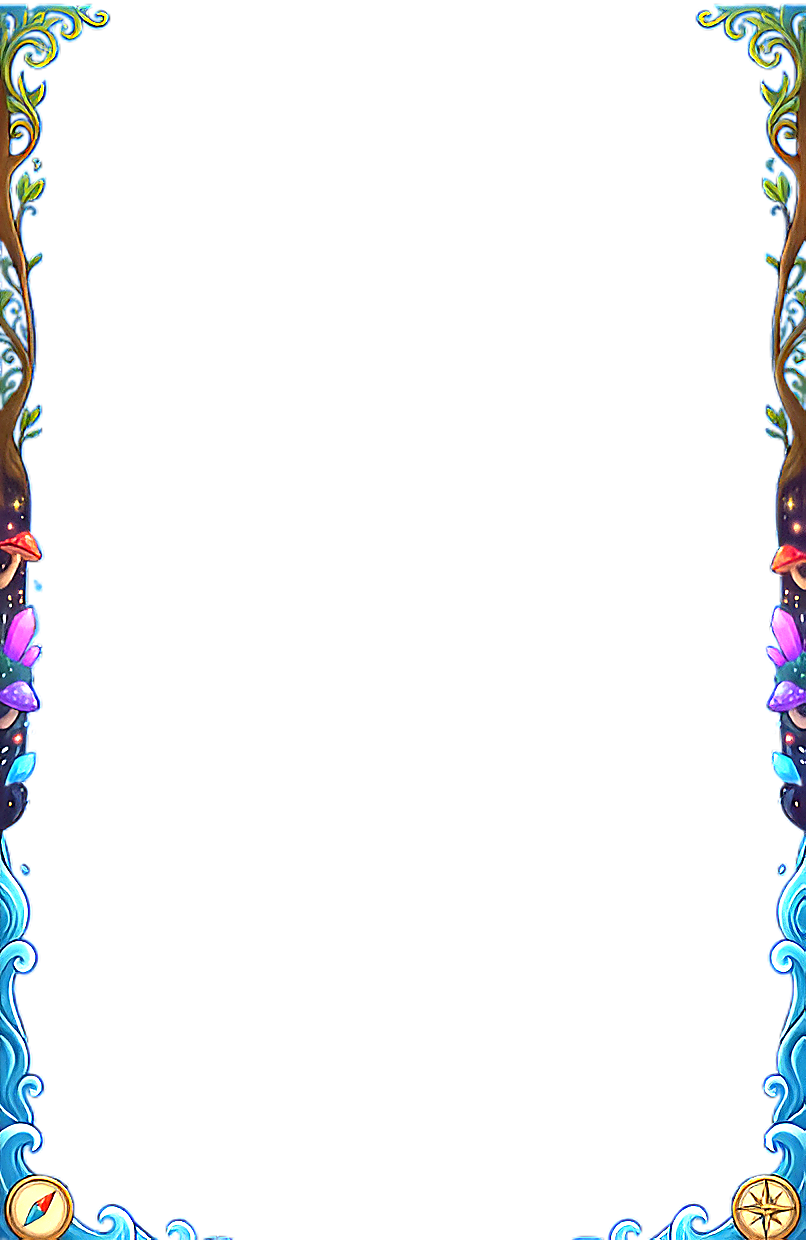
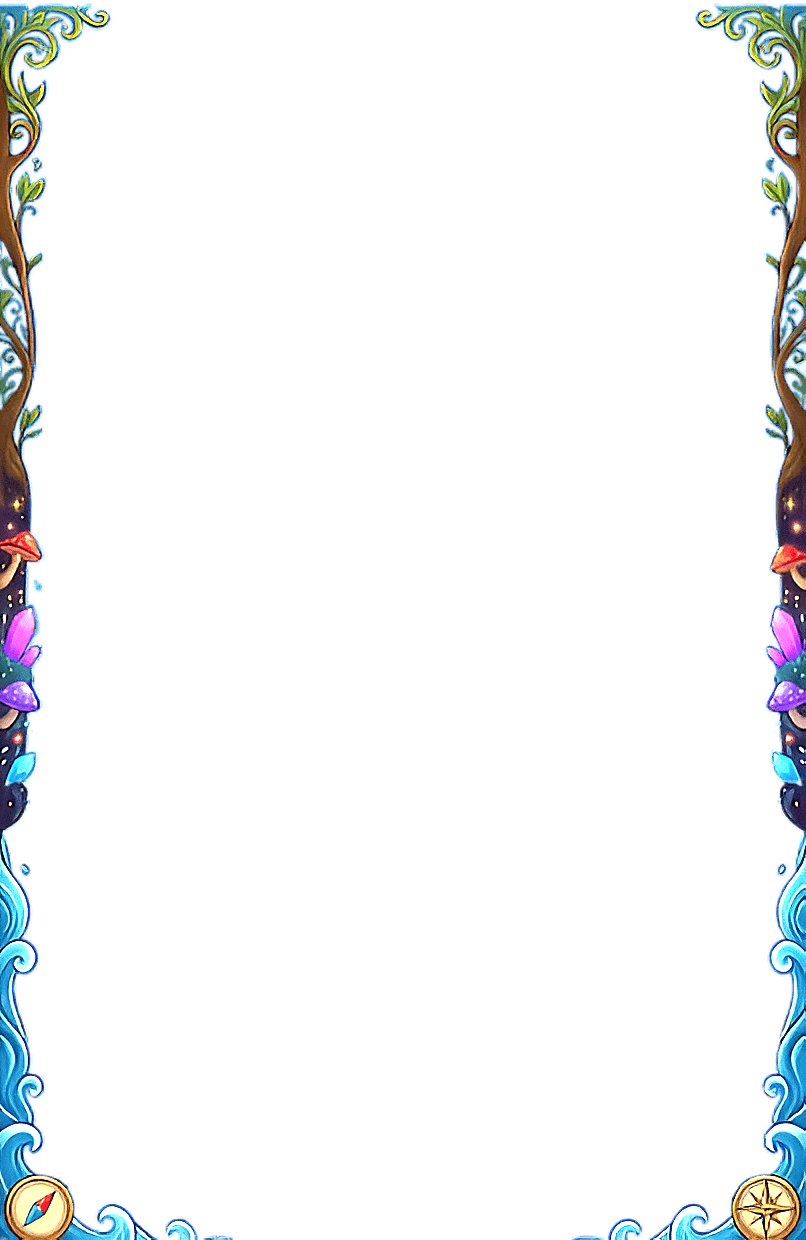
Updated

diff --git a/game_start.html b/game_start.html
@@ -13,7 +13,7 @@
     <link rel="stylesheet" href="style.css">
 </head>
 <body class="game-start-page">
-    <img class="game-start-bg" src="assets/Backgrounds/bg1.png" alt="Learnscape game background">
+    <img class="game-start-bg" src="assets/Backgrounds/bg1.webp" alt="Learnscape game background">
     <a class="game-return-btn loading-link" href="title-screen.html" aria-label="Return to title screen">
         <span>‹</span>
         Back
@@ -36,7 +36,7 @@
         <section class="game-grid">
             <a class="game-card game-card-1 loading-link" href="game1.html" aria-label="Open Game 1">
                 <div class="game-card-media">
-                    <img class="game-card-image" src="assets/Backgrounds/Game1.png" alt="Game 1 preview">
+                    <img class="game-card-image" src="assets/Backgrounds/1st.webp" alt="Game 1 preview">
                     <div class="game-card-overlay">
                         <h2 class="game-card-title">Alphabet Forest</h2>
                     </div>
@@ -45,7 +45,7 @@
 
             <a class="game-card game-card-2 loading-link" href="#" aria-label="Game 2">
                 <div class="game-card-media">
-                    <img class="game-card-image" src="assets/Backgrounds/Game2.png" alt="Game 2 preview">
+                    <img class="game-card-image" src="assets/Backgrounds/Game2.webp" alt="Game 2 preview">
                     <div class="game-card-overlay">
                         <h2 class="game-card-title">Math Meadow</h2>
                     </div>

diff --git a/title-screen.html b/title-screen.html
@@ -58,7 +58,7 @@
             <div class="quest-card card-abc">
                 <div class="card-visual">
                     <span class="visual-badge">LETTERS</span>
-                    <img class="card-image" src="assets/Backgrounds/abc.png" alt="ABC Dungeon preview">
+                    <img class="card-image" src="assets/Backgrounds/abc.webp" alt="ABC Dungeon preview">
                 </div>
                 <div class="card-content">
                     <h3 class="card-title">Alphabet Forest</h3>
@@ -71,7 +71,7 @@
             <div class="quest-card reverse card-123">
                 <div class="card-visual">
                     <span class="visual-badge">NUMBERS</span>
-                    <img class="card-image" src="assets/Backgrounds/123.png" alt="123 Mission preview">
+                    <img class="card-image" src="assets/Backgrounds/123.webp" alt="123 Mission preview">
                 </div>
                 <div class="card-content">
                     <h3 class="card-title">Math Meadow</h3>

diff --git a/game1.html b/game1.html
@@ -13,7 +13,7 @@
     <link rel="stylesheet" href="style.css">
 </head>
 <body class="game1-page">
-    <video class="game1-bg-video" autoplay muted loop playsinline preload="auto" poster="assets/Backgrounds/Game1.jpeg" aria-hidden="true">
+    <video class="game1-bg-video" autoplay muted loop playsinline preload="auto" poster="assets/Backgrounds/Game1.webp" aria-hidden="true">
         <source src="assets/Backgrounds/Game1.mp4" type="video/mp4">
     </video>
     <div class="game1-overlay" aria-hidden="true"></div>

diff --git a/style.css b/style.css
@@ -33,7 +33,7 @@ body {
 body.title-page {
     background:
         linear-gradient(rgba(0, 0, 0, 0.22), rgba(0, 0, 0, 0.22)),
-        url('assets/Backgrounds/bgintro.jpeg') center / cover no-repeat #000;
+        url('assets/Backgrounds/bgintro.webp') center / cover no-repeat #000;
 }
 
 body.app-shell {

diff --git a/sw.js b/sw.js
@@ -1,4 +1,4 @@
-const CACHE_NAME = 'learnscape-adventure-v16';
+const CACHE_NAME = 'learnscape-adventure-v18';
 const CORE_ASSETS = [
   './',
   './index.html',
